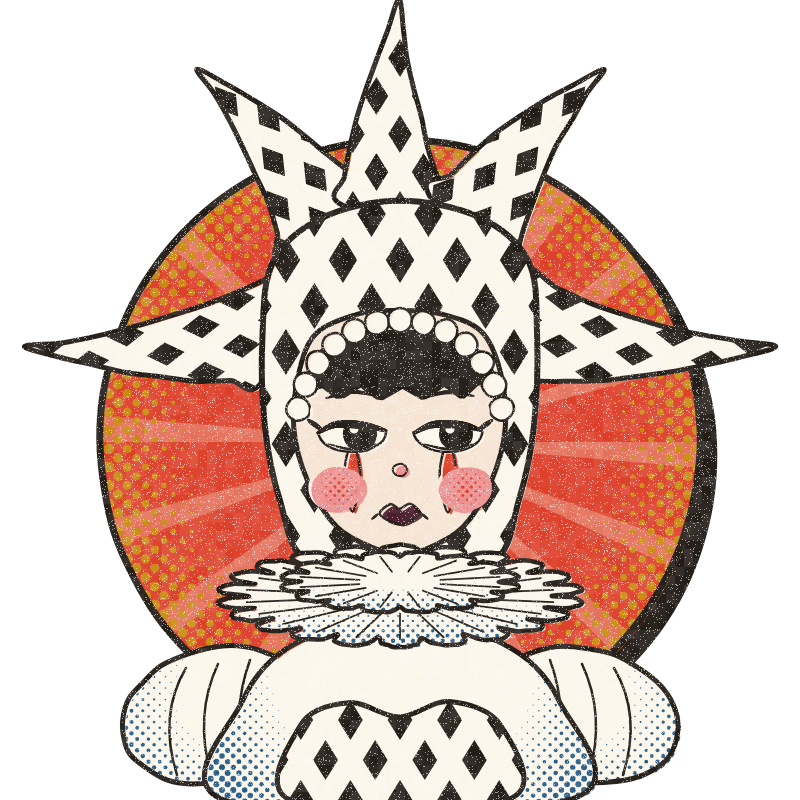
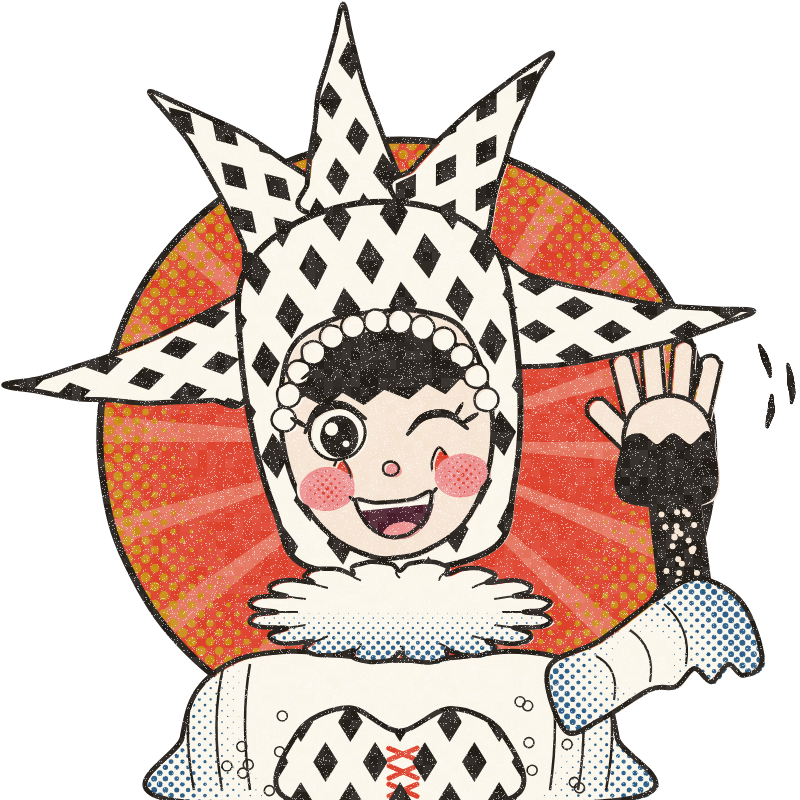
Make the jester cheerful and waving, with one-piece body and a softer ruff

Changed region(s): [[0.0, 0.0, 1.0, 1.0], [0.9375, 0.5, 0.9688, 0.5312]]

diff --git a/art/drawings/jester.js b/art/drawings/jester.js
@@ -1,5 +1,5 @@
-// The mascot: a jester in a harlequin hood with five points, a lace ruff and
-// clown make-up, drawn head and shoulders in front of a red sun badge.
+// The mascot: a cheerful jester in a harlequin hood with five points, a lace
+// ruff and clown make-up, waving from in front of a red sun badge.
 const DRAWING = { width: 800, height: 800, paint() {
   const badge = [400, 440], badgeRadius = 300;
   part(ellipsePoints(badge[0] + 14, badge[1] + 14, badgeRadius, badgeRadius, 40), { fill: INK.black, line: 0, wobble: 1 });
@@ -15,7 +15,67 @@ const DRAWING = { width: 800, height: 800, paint() {
         (x, y) => (Math.hypot(x - badge[0], y - badge[1]) - 190) / 110);
     } });
 
-  // Five points of the hood, each a curved cone of diamonds.
+  const blueShade = (cx, cy, r, reach = 90) => ctx =>
+    halftone(ctx, [0, 0, 800, 800], 8, 3, INK.blue, (x, y) => (Math.hypot(x - cx, y - cy) - r) / reach);
+
+  // The body: a white lace blouse with puffed shoulders, all one shape so
+  // the sleeves grow out of it, and a harlequin corset laced in red.
+  part([[176, 800], [182, 738], [198, 690], [236, 660], [290, 652], [340, 656], [400, 660], [460, 656], [510, 652], [564, 660], [602, 690], [618, 738], [624, 800]],
+    { fill: INK.white, colourDetail: blueShade(400, 700, 150, 110),
+      blackDetail(ctx) {
+        ctx.strokeStyle = INK.black; ctx.lineWidth = 2.5;
+        for (const side of [-1, 1]) for (const k of [0, 1, 2]) {
+          ctx.beginPath(); ctx.moveTo(400 + side * (150 + k * 26), 664); ctx.quadraticCurveTo(400 + side * (160 + k * 30), 720, 400 + side * (150 + k * 28), 790); ctx.stroke();
+        }
+        ctx.lineWidth = 1.6;
+        for (let i = 0; i < 22; i++) {
+          const x = 200 + hash(i) * 400, y = 700 + hash(i + 50) * 100;
+          if (Math.abs(x - 400) < 110) continue;
+          ctx.beginPath(); ctx.arc(x, y, 5, 0, Math.PI * 2); ctx.stroke();
+        }
+      } });
+  part([[292, 800], [298, 734], [348, 708], [400, 730], [452, 708], [502, 734], [508, 800]],
+    { fill: INK.white, line: 5, blackDetail(ctx) { harlequin(ctx, [290, 700, 510, 800], 40, 0, 12); } });
+  for (let y = 746; y < 800; y += 18) {
+    stroke([[386, y], [414, y + 12]], { colour: INK.red, width: 5, taper: false, wobble: .5 });
+    stroke([[414, y], [386, y + 12]], { colour: INK.red, width: 5, taper: false, wobble: .5 });
+  }
+
+  // The waving arm: a lace sleeve that flares at the elbow, a black lace
+  // glove on the forearm, and a big open hand.
+  const shoulder = [572, 700], elbow = [688, 612], wrist = [672, 478];
+  part(capsule(elbow, wrist, 48), { fill: INK.skin, blackFill: true, line: 5,
+    blackDetail(ctx) {
+      ctx.globalCompositeOperation = 'destination-out';
+      for (let i = 0; i < 46; i++) {
+        const t = hash(i + 7), across = (hash(i + 90) - .5) * 36;
+        ctx.beginPath(); ctx.arc(elbow[0] + (wrist[0] - elbow[0]) * t + across, elbow[1] + (wrist[1] - elbow[1]) * t, 3, 0, Math.PI * 2); ctx.fill();
+      }
+      ctx.globalCompositeOperation = 'source-over';
+    } });
+  part([[548, 668], [600, 640], [660, 596], [700, 578], [742, 604], [762, 660], [744, 676], [728, 664], [712, 682], [694, 668], [676, 686], [650, 690], [600, 720], [566, 730]],
+    { fill: INK.white, line: 5, wobble: 1.5, colourDetail: blueShade(640, 660, 20, 70),
+      blackDetail(ctx) { ctx.strokeStyle = INK.black; ctx.lineWidth = 2.2;
+        for (const k of [0, 1, 2]) { ctx.beginPath(); ctx.moveTo(596 + k * 34, 656 - k * 26); ctx.quadraticCurveTo(620 + k * 36, 668 - k * 20, 614 + k * 36, 700 - k * 18); ctx.stroke(); } } });
+  const palm = [668, 432], hand = 1.4;
+  for (const [dx, length, lean] of [[-22, 44, -.25], [-8, 54, -.08], [7, 52, .08], [21, 42, .22]]) {
+    const from = [palm[0] + dx * hand, palm[1] - 6 * hand];
+    part(capsule(from, [from[0] + Math.sin(lean) * length * hand, from[1] - Math.cos(lean) * length * hand], 15 * hand), { fill: INK.skin, line: 4, wobble: .8 });
+  }
+  part(capsule([palm[0] - 26 * hand, palm[1] + 8 * hand], [palm[0] - 50 * hand, palm[1] - 16 * hand], 16 * hand), { fill: INK.skin, line: 4, wobble: .8 });
+  part(ellipsePoints(palm[0], palm[1] + 4 * hand, 32 * hand, 30 * hand, 18), { fill: INK.skin, line: 4.5, wobble: 1 });
+  part([-32, -20, -8, 4, 16, 30].map((dx, i) => [palm[0] + dx * hand, palm[1] + (i % 2 ? 2 : 10) * hand])
+        .concat([[palm[0] + 30 * hand, palm[1] + 48 * hand], [palm[0] - 32 * hand, palm[1] + 48 * hand]]),
+    { fill: INK.skin, blackFill: true, line: 3, wobble: 1 });
+  for (const [a, r] of [[-.35, 104], [-.1, 124], [.15, 104]]) {
+    const points = [];
+    for (let k = -2; k <= 2; k++) points.push([palm[0] + Math.cos(a + k * .08) * r, palm[1] - 36 + Math.sin(a + k * .08) * r]);
+    stroke(points, { width: 7, wobble: 1 });
+  }
+
+  // The head, tipped a little to one side.
+  tilt(-.1, [400, 560]);
+
   const spike = (a, b, tip, bend) => {
     const base = [(a[0] + b[0]) / 2, (a[1] + b[1]) / 2], dx = tip[0] - base[0], dy = tip[1] - base[1], len = Math.hypot(dx, dy);
     const perp = [-dy / len, dx / len], quad = (p, q, t) => {
@@ -36,25 +96,13 @@ const DRAWING = { width: 800, height: 800, paint() {
           [crown[0] + along[0] * length, crown[1] + along[1] * length + droop], bend);
   }
 
-  // Shoulders: a white lace blouse with puffed sleeves and a harlequin corset.
-  const blueShade = (cx, cy, r) => ctx => halftone(ctx, [0, 0, 800, 800], 8, 3, INK.blue, (x, y) => (Math.hypot(x - cx, y - cy) - r) / 90);
-  for (const side of [-1, 1]) part(ellipsePoints(400 + side * 185, 715, 95, 66, 22, side * .25), { fill: INK.white,
-    colourDetail: blueShade(400 + side * 175, 690, 40),
-    blackDetail(ctx) { ctx.strokeStyle = INK.black; ctx.lineWidth = 2.5;
-      for (const k of [0, 1, 2]) { ctx.beginPath(); ctx.moveTo(400 + side * (150 + k * 32), 660 + k * 4); ctx.quadraticCurveTo(400 + side * (170 + k * 36), 715, 400 + side * (155 + k * 34), 775); ctx.stroke(); } } });
-  part([[228, 800], [242, 700], [300, 642], [400, 624], [500, 642], [558, 700], [572, 800]],
-    { fill: INK.white, colourDetail: blueShade(400, 660, 120) });
-  part([[292, 800], [300, 725], [350, 702], [400, 718], [450, 702], [500, 725], [508, 800]],
-    { fill: INK.white, blackDetail(ctx) { harlequin(ctx, [290, 700, 510, 800], 40, 0, 10); } });
-
-  // The hood, framing the face.
-  part([[262, 335], [272, 262], [322, 218], [400, 200], [478, 218], [528, 262], [538, 335], [534, 425], [520, 500], [492, 562], [400, 580], [308, 562], [280, 500], [266, 425]],
+  // Hood.
+  part([[262, 335], [272, 262], [322, 218], [400, 200], [478, 218], [528, 262], [538, 335], [534, 425], [520, 500], [496, 556], [400, 574], [304, 556], [280, 500], [266, 425]],
     { fill: INK.white, line: 6, blackDetail(ctx) { harlequin(ctx, [250, 190, 550, 590], 46, 0, 8); } });
 
   // Face.
-  part([[300, 372], [318, 332], [360, 314], [400, 310], [440, 314], [482, 332], [500, 372], [505, 428], [492, 482], [462, 526], [426, 549], [400, 553], [374, 549], [338, 526], [308, 482], [295, 428]],
+  part([[300, 372], [318, 332], [360, 314], [400, 310], [440, 314], [482, 332], [500, 372], [505, 428], [494, 484], [466, 530], [428, 553], [400, 557], [372, 553], [334, 530], [306, 484], [295, 428]],
     { fill: INK.skin, line: 5 });
-  // A blunt black fringe under the lace.
   part([[304, 392], [310, 358], [345, 336], [400, 330], [455, 336], [490, 358], [496, 392], [478, 384], [462, 398], [444, 386], [424, 400], [402, 387], [380, 400], [360, 386], [340, 399], [322, 386]],
     { blackFill: true, line: 3, wobble: 1.5, smooth: false });
   for (let a = -168; a <= -12; a += 13) {
@@ -62,40 +110,54 @@ const DRAWING = { width: 800, height: 800, paint() {
     part(ellipsePoints(400 + Math.cos(r) * 104, 432 + Math.sin(r) * 112, 12, 12, 10), { fill: INK.white, line: 2.5, wobble: 1 });
   }
 
-  // Eyes: half-lidded, heavy lashes, looking off to the side.
-  for (const [x, y, side] of [[352, 432, -1], [448, 432, 1]]) {
-    // Clown marks: a long red teardrop under each eye.
-    part([[x, y + 10], [x + 8, y + 42], [x, y + 80], [x - 8, y + 42]], { fill: INK.red, line: 2.5, wobble: 1 });
-    part(ellipsePoints(x, y, 34, 20, 16), { fill: INK.white, line: 2.5, wobble: 1 });
-    part(ellipsePoints(x + 8, y + 2, 17, 17, 14), { blackFill: true, line: 0, wobble: .5 });
-    part(ellipsePoints(x + 2, y - 3, 4.5, 4.5, 8), { fill: INK.white, line: 0, wobble: .3 });
-    part([[x - 36, y - 1], [x - 20, y - 7], [x, y - 8], [x + 20, y - 6], [x + 36, y - 1], [x + 36, y - 30], [x - 36, y - 30]], { fill: INK.skin, line: 0, wobble: .5 });
-    stroke([[x - 34, y + 1], [x - 18, y - 7], [x, y - 8], [x + 18, y - 6], [x + 34, y - 1]], { width: 8, wobble: 1 });
-    stroke([[x + side * 30, y - 2], [x + side * 44, y - 12]], { width: 5, wobble: .5 });
-    stroke([[x - 24, y + 12], [x, y + 17], [x + 24, y + 12]], { width: 2.5, wobble: .5 });
-    stroke([[x - 26, y - 34], [x, y - 40], [x + 26, y - 36]], { width: 4, wobble: .5 });
-  }
-  // Cheeks in pink with a red dot screen, a pink button nose, dark pouting lips.
-  for (const x of [336, 464]) part(ellipsePoints(x, 488, 28, 23, 16), { fill: INK.pink, line: 0, wobble: 1,
-    colourDetail(ctx) { halftone(ctx, [x - 30, 460, x + 30, 512], 6, 2.1, INK.red, (px, py) => 1 - Math.hypot(px - x, py - 486) / 26); } });
-  part(ellipsePoints(400, 470, 7, 6, 10), { fill: INK.pink, line: 2, wobble: .5 });
-  part([[380, 513], [390, 504], [400, 509], [410, 504], [420, 513], [411, 521], [400, 524], [389, 521]], { fill: INK.plum, line: 2.5, wobble: .8 });
-  stroke([[378, 514], [372, 519]], { width: 2.5, wobble: .3 });
-  stroke([[422, 514], [428, 519]], { width: 2.5, wobble: .3 });
+  // Clown diamonds under the eyes, short and bright.
+  for (const x of [350, 450]) part([[x, 452], [x + 9, 470], [x, 490], [x - 9, 470]], { fill: INK.red, line: 2.5, wobble: .8 });
+  // Left eye open wide with two sparkles.
+  const left = [350, 428];
+  part(ellipsePoints(...left, 28, 26, 18), { fill: INK.white, line: 3, wobble: 1 });
+  part(ellipsePoints(left[0] + 2, left[1] + 3, 19, 21, 16), { blackFill: true, line: 0, wobble: .5 });
+  part(ellipsePoints(left[0] - 5, left[1] - 5, 6.5, 6.5, 10), { fill: INK.white, line: 0, wobble: .3 });
+  part(ellipsePoints(left[0] + 8, left[1] + 11, 3.5, 3.5, 8), { fill: INK.white, line: 0, wobble: .3 });
+  stroke([[left[0] - 32, left[1] - 4], [left[0] - 16, left[1] - 26], [left[0] + 8, left[1] - 28], [left[0] + 30, left[1] - 12]], { width: 8, wobble: .8 });
+  stroke([[left[0] - 30, left[1] - 10], [left[0] - 44, left[1] - 20]], { width: 5, wobble: .4 });
+  stroke([[left[0] - 30, left[1] - 58], [left[0] - 4, left[1] - 70], [left[0] + 24, left[1] - 62]], { width: 5, wobble: .5 });
+  // Right eye winking: a happy upward curve with lashes.
+  const right = [450, 432];
+  stroke([[right[0] - 30, right[1] + 4], [right[0] - 12, right[1] - 12], [right[0] + 12, right[1] - 12], [right[0] + 30, right[1] + 4]], { width: 8, wobble: .8 });
+  stroke([[right[0] + 26, right[1] - 2], [right[0] + 42, right[1] - 10]], { width: 5, wobble: .4 });
+  stroke([[right[0] + 18, right[1] - 8], [right[0] + 28, right[1] - 22]], { width: 4, wobble: .4 });
+  stroke([[right[0] - 26, right[1] - 58], [right[0] + 2, right[1] - 70], [right[0] + 28, right[1] - 60]], { width: 5, wobble: .5 });
+  // Round pink cheeks with a red dot screen, a pink button nose.
+  for (const x of [332, 468]) part(ellipsePoints(x, 480, 28, 22, 16), { fill: INK.pink, line: 0, wobble: 1,
+    colourDetail(ctx) { halftone(ctx, [x - 32, 452, x + 32, 508], 6, 2.1, INK.red, (px, py) => 1 - Math.hypot(px - x, py - 480) / 28); } });
+  part(ellipsePoints(400, 468, 8, 7, 10), { fill: INK.pink, line: 2.5, wobble: .5 });
+  // A big open smile: dark lips, teeth, and a pink tongue.
+  const smile = [[362, 496], [380, 500], [400, 501], [420, 500], [438, 496], [430, 520], [414, 534], [400, 537], [386, 534], [370, 520]];
+  part(smile, { fill: INK.plum, line: 4, wobble: .8,
+    colourDetail(ctx) {
+      ctx.fillStyle = INK.white; ctx.fillRect(360, 494, 80, 11);
+      ctx.fillStyle = INK.pink; ctx.beginPath(); ctx.ellipse(402, 533, 20, 13, 0, 0, Math.PI * 2); ctx.fill();
+    } });
+  stroke([[356, 492], [362, 497]], { width: 3.5, wobble: .3 });
+  stroke([[444, 492], [438, 497]], { width: 3.5, wobble: .3 });
+  tilt(null);
 
-  // The lace ruff: two gathered rings with pleats.
+  // The ruff: a pleated ring around the neck, seen from the front, in two
+  // tiers. Each pleat is a rounded lobe with a fold line down its middle.
   const ruff = (cy, rx, ry, lobes) => {
     const points = [];
     for (let i = 0; i < lobes * 8; i++) {
-      const a = i / (lobes * 8) * Math.PI * 2, k = .84 + .18 * Math.sqrt(Math.abs(Math.sin(a * lobes / 2)));
+      const a = i / (lobes * 8) * Math.PI * 2, k = .82 + .2 * Math.sqrt(Math.abs(Math.sin(a * lobes / 2)));
       points.push([400 + Math.cos(a) * rx * k, cy + Math.sin(a) * ry * k]);
     }
-    part(points, { fill: INK.white, line: 4.5, wobble: 1.2,
-      colourDetail(ctx) { halftone(ctx, [400 - rx, cy - ry, 400 + rx, cy + ry], 7, 2.6, INK.blue, (x, y) => (y - cy) / ry); },
-      blackDetail(ctx) { ctx.strokeStyle = INK.black; ctx.lineWidth = 1.8;
-        for (let i = 0; i < lobes; i++) { const a = (i + .5) / lobes * Math.PI * 2;
-          ctx.beginPath(); ctx.moveTo(400 + Math.cos(a) * rx * .35, cy + Math.sin(a) * ry * .35); ctx.lineTo(400 + Math.cos(a) * rx * .86, cy + Math.sin(a) * ry * .86); ctx.stroke(); } } });
+    part(points, { fill: INK.white, line: 4.5, wobble: 1,
+      colourDetail(ctx) { halftone(ctx, [400 - rx, cy - ry, 400 + rx, cy + ry], 7, 2.6, INK.blue, (x, y) => .2 + (y - cy) / ry); },
+      blackDetail(ctx) { ctx.strokeStyle = INK.black; ctx.lineWidth = 2;
+        for (let i = 0; i < lobes; i++) {
+          const a = (i + .5) / lobes * Math.PI * 2 + Math.PI / lobes, c = Math.cos(a), s = Math.sin(a);
+          ctx.beginPath(); ctx.moveTo(400 + c * rx * .68, cy + s * ry * .68);
+          ctx.quadraticCurveTo(400 + c * rx * .8 + s * 8, cy + s * ry * .8, 400 + c * rx * .9, cy + s * ry * .92); ctx.stroke();
+        } } });
   };
-  ruff(596, 180, 50, 22);
-  ruff(582, 118, 30, 16);
+  ruff(612, 150, 50, 16);
 }};

diff --git a/art/kit.js b/art/kit.js
@@ -43,9 +43,18 @@ function ellipsePoints(cx, cy, rx, ry, steps = 24, rotation = 0) {
 // The two passes. Colour: flat fills and colour halftones. Black: outlines,
 // black patterns and black halftones. A part hides the black of the parts
 // behind it, so lines never show through something in front.
-let PARTS = [];
-function part(points, options) { PARTS.push({ points, ...options }); }
-function stroke(points, options) { PARTS.push({ points, openStroke: true, ...options }); }
+let PARTS = [], TILT = null;
+// Parts drawn while a tilt is set turn with it: tilt(angle, [x, y]) … tilt(null).
+function tilt(angle, pivot) { TILT = angle === null ? null : { angle, pivot }; }
+function part(points, options) { PARTS.push({ points, tilt: TILT, ...options }); }
+function stroke(points, options) { PARTS.push({ points, tilt: TILT, openStroke: true, ...options }); }
+// A thick rounded bar from a to b, for arms and fingers.
+function capsule(a, b, width) {
+  const angle = Math.atan2(b[1] - a[1], b[0] - a[0]), r = width / 2, points = [];
+  for (let i = 0; i <= 8; i++) { const t = angle + Math.PI / 2 + i / 8 * Math.PI; points.push([a[0] + Math.cos(t) * r, a[1] + Math.sin(t) * r]); }
+  for (let i = 0; i <= 8; i++) { const t = angle - Math.PI / 2 + i / 8 * Math.PI; points.push([b[0] + Math.cos(t) * r, b[1] + Math.sin(t) * r]); }
+  return points;
+}
 
 // A line that swells in the middle and tapers at the ends, like a brush pen.
 function taperedStroke(ctx, points, width) {
@@ -99,6 +108,14 @@ function printDrawing(canvas, drawing) {
   const colourLayer = layer(), blackLayer = layer();
   const colour = colourLayer.getContext('2d'), black = blackLayer.getContext('2d');
   PARTS.forEach((p, index) => {
+    for (const ctx of [colour, black]) {
+      ctx.save();
+      if (p.tilt) { ctx.translate(...p.tilt.pivot); ctx.rotate(p.tilt.angle); ctx.translate(-p.tilt.pivot[0], -p.tilt.pivot[1]); }
+    }
+    printPart(p, index, colour, black);
+    colour.restore(); black.restore();
+  });
+  function printPart(p, index, colour, black) {
     const seed = index * 97;
     if (p.openStroke) {
       const pts = resample(wobble(p.points, p.wobble ?? 2, seed), p.smooth !== false);
@@ -120,7 +137,7 @@ function printDrawing(canvas, drawing) {
       black.strokeStyle = INK.black; black.lineWidth = p.line ?? 5; black.lineJoin = 'round'; black.lineCap = 'round';
       black.stroke(shape);
     }
-  });
+  }
   const out = canvas.getContext('2d');
   // The colour drum sits a little out of register with the black one.
   const [dx, dy] = drawing.misregister ?? [3, 2];
